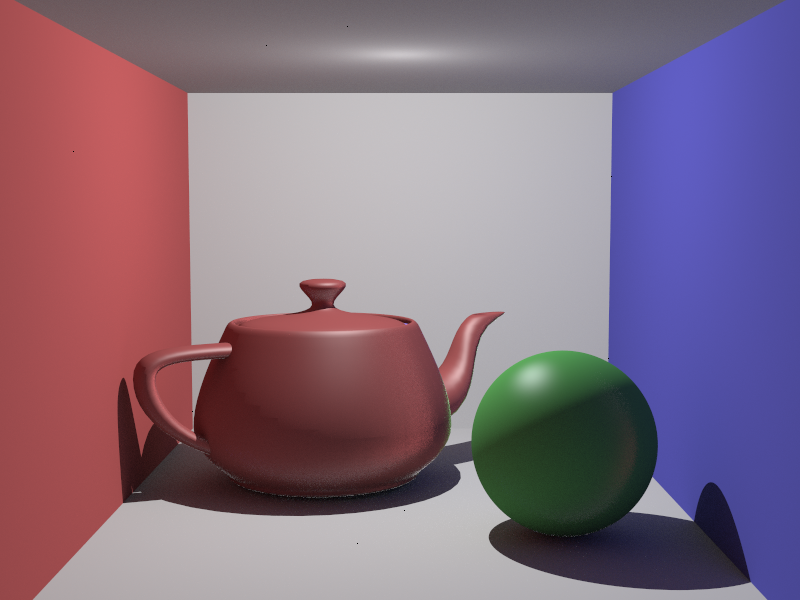
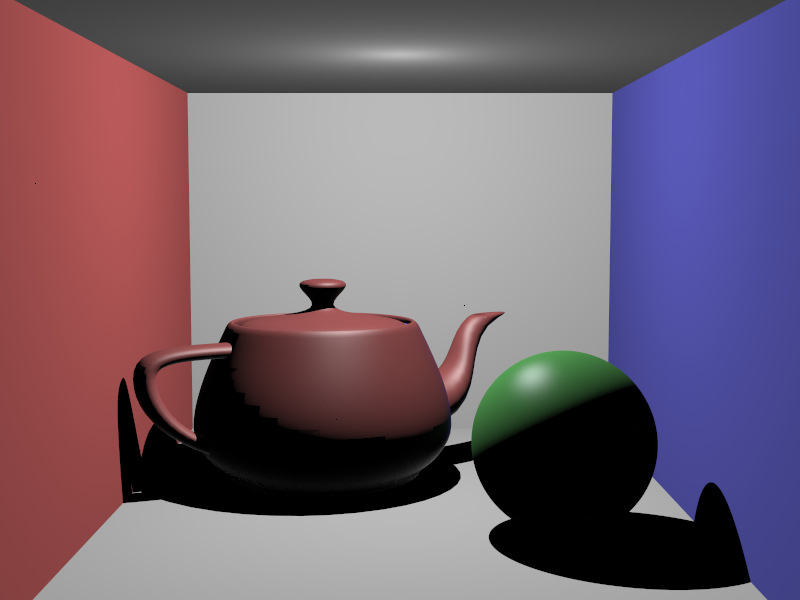
hehehe

diff --git a/RayTracingRenderer/RayTracingRenderer/RayTracingRenderer.cpp b/RayTracingRenderer/RayTracingRenderer/RayTracingRenderer.cpp
@@ -396,20 +396,20 @@ Color MtlBlinn::Shade(Ray const & ray, const HitInfo & hInfo, const LightList & 
 	// Diffuse part for GI
 	if (bounce < GIBOUNCE)
 	{
-		int bouncetime = bounce + 1;
-		Color returnColor = Color(0, 0, 0);
-		Vec3f N_dash = N;
+		//int bouncetime = bounce + 1;
+		//Color returnColor = Color(0, 0, 0);
+		//Vec3f N_dash = N;
 
-		CosineWeightedHemisphereUniformSampling(N_dash);
+		//CosineWeightedHemisphereUniformSampling(N_dash);
 
-		Ray ray_gi;
-		ray_gi.p = hInfo.p;
-		ray_gi.p += SHADOWBIAS * N;
-		ray_gi.dir = N_dash;
+		//Ray ray_gi;
+		//ray_gi.p = hInfo.p;
+		//ray_gi.p += SHADOWBIAS * N;
+		//ray_gi.dir = N_dash;
 
-		returnColor = this->diffuse.Sample(hInfo.uvw, hInfo.duvw) * GlobalIlluminationTraverse(ray_gi, bouncetime);
-		returnColor *= (1 / static_cast<float>(M_PI));
-		color += returnColor;
+		//returnColor = this->diffuse.Sample(hInfo.uvw, hInfo.duvw) * GlobalIlluminationTraverse(ray_gi, bouncetime);
+		//returnColor *= (1 / static_cast<float>(M_PI));
+		//color += returnColor;
 	}
 
 	// Specular part for GI
@@ -418,24 +418,6 @@ Color MtlBlinn::Shade(Ray const & ray, const HitInfo & hInfo, const LightList & 
 		int bouncetime = bounce + 1;
 		Color returnColor = Color(0, 0, 0);
 		Vec3f N_dash = N;
-
-		//HemisphereUniformSampling(N_dash);
-
-		//Ray ray_gi;
-		//ray_gi.p = hInfo.p;
-		//ray_gi.p += SHADOWBIAS * N;
-		//ray_gi.dir = N_dash;
-
-		//Vec3f L = -1 * ray_gi.dir;
-		//L.Normalize();
-		//Vec3f V = ray.p - hInfo.p;
-		//V.Normalize();
-		//Vec3f H = (V + L) / (V + L).Length();
-		//H.Normalize();
-
-		//returnColor = pow(H.Dot(hInfo.N), this->glossiness) * this->specular.Sample(hInfo.uvw, hInfo.duvw) * GlobalIlluminationTraverse(ray_gi, bouncetime);
-		//returnColor *= ((this->glossiness + 2) / 2 * M_PI);
-		//color += returnColor;
 
 		SpecularWeightedHemisphereSampling(N_dash, this->glossiness);
 

diff --git a/RayTracingRenderer/RayTracingRenderer/utility.h b/RayTracingRenderer/RayTracingRenderer/utility.h
@@ -98,9 +98,9 @@ namespace Utility
 		float theta = (static_cast<float>(rand()) / (RAND_MAX));
 		float phy = (static_cast<float>(rand()) / (RAND_MAX));
 
-		float x_length = cosf(phy) * pow(theta, 1 / (glossiness + 1));
-		float y_length = sinf(phy) * pow(theta, 1 / (glossiness + 1));
-		float z_length = sqrtf(1 - pow(theta, 1 / (glossiness + 1)) * pow(theta, 1 / (glossiness + 1)));
+		float x_length = cosf(phy) * sqrtf( 1 - pow(theta, 1 / (1 + glossiness)) * pow(theta, 1 / (1 + glossiness)));
+		float y_length = sinf(phy) * sqrtf(1 - pow(theta, 1 / (1 + glossiness)) * pow(theta, 1 / (1 + glossiness)));
+		float z_length = pow(theta, 1 / (1 + glossiness));
 
 		dir = x_length * x_dir + y_length * y_dir + z_length * dir;
 	}
@@ -118,18 +118,18 @@ namespace Utility
 
 		float x_length, y_length, z_length;
 
-		if ()
-		{
-			x_length = cosf(2 * static_cast<float>(M_PI) * phy) * sqrtf(theta);
-			y_length = sinf(2 * static_cast<float>(M_PI) * phy) * sqrtf(theta);
-			z_length = sqrtf(1 - theta);
-		}
-		else
-		{
-			x_length = cosf(phy) * pow(theta, 1 / (glossiness + 1));
-			y_length = sinf(phy) * pow(theta, 1 / (glossiness + 1));
-			z_length = sqrtf(1 - pow(theta, 1 / (glossiness + 1)) * pow(theta, 1 / (glossiness + 1)));
-		}
+		//if ()
+		//{
+		//	x_length = cosf(2 * static_cast<float>(M_PI) * phy) * sqrtf(theta);
+		//	y_length = sinf(2 * static_cast<float>(M_PI) * phy) * sqrtf(theta);
+		//	z_length = sqrtf(1 - theta);
+		//}
+		//else
+		//{
+		//	x_length = cosf(phy) * pow(theta, 1 / (glossiness + 1));
+		//	y_length = sinf(phy) * pow(theta, 1 / (glossiness + 1));
+		//	z_length = sqrtf(1 - pow(theta, 1 / (glossiness + 1)) * pow(theta, 1 / (glossiness + 1)));
+		//}
 
 		dir = x_length * x_dir + y_length * y_dir + z_length * dir;
 	}
